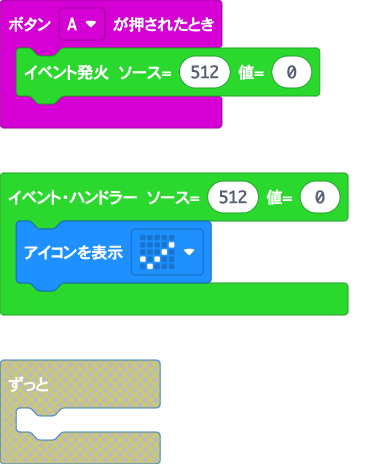
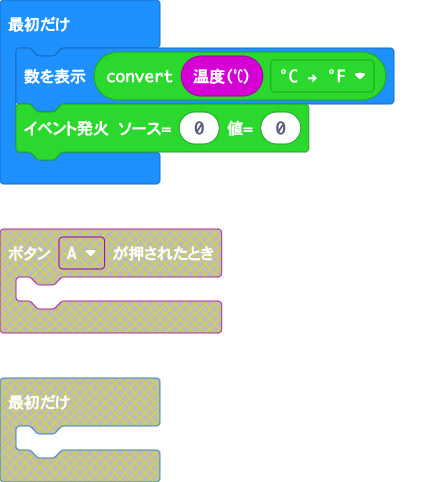
更新 main.blocks, main.ts, myEvents.ts, myEvents.cpp

diff --git a/myEvents.ts b/myEvents.ts
@@ -8,49 +8,49 @@ enum TempConvertType {
 //% color=#2bd92e
 //% weight=95
 //% icon="\uf135"
-namespace myBlocks {
-    // //% blockId=myBlocks_convertTemperature
-    // //% block="convert|%value|%convertType"
-    // export function convertTemperature(value: number, convertType: TempConvertType): number {
-    //     if (convertType === TempConvertType.CtoF) {
-    //         return cToF(value);
-    //     }
-    //     if (convertType === TempConvertType.FtoC) {
-    //         return fToC(value);
-    //     }
-    //     return value;
-    // }
-
-    // //% shim=myBlocks::cToF
-    // function cToF(value: number) {
-    //     return 32.0; // dummy for sim
-    // }
-
-    // //% shim=myBlocks::fToC
-    // function fToC(value: number) {
-    //     return -17.78; // dummy for sim
-    // }
-
-
-
-    //% block="イベント・ハンドラー ソース=$id 値=$val"
-    export function onMyEvent(id: number, val: number, handler: () => void) {
-        onEvent(id, val, handler)
+namespace myEvents {
+    //% blockId=myBlocks_convertTemperature
+    //% block="convert|%value|%convertType"
+    export function convertTemperature(value: number, convertType: TempConvertType): number {
+        if (convertType === TempConvertType.CtoF) {
+            return cToF(value);
+        }
+        if (convertType === TempConvertType.FtoC) {
+            return fToC(value);
+        }
+        return value;
     }
+
+    //% shim=myEvents::cToF
+    function cToF(value: number) {
+        return 32.0; // dummy for sim
+    }
+
+    //% shim=myEvents::fToC
+    function fToC(value: number) {
+        return -17.78; // dummy for sim
+    }
+
+
+
+    // // block="イベント・ハンドラー ソース=$id 値=$val"
+    // export function onMyEvent(id: number, val: number, handler: () => void) {
+    //     onEvent(id, val, handler)
+    // }
+
+    // // shim=myEvents::onEvnet
+    // function onEvent(id: number, val: number, handler: () => void) {
+    //     return 0    // dummy
+    // }
+
+
 
     //% block="イベント発火 ソース=$id 値=$val"
     export function fireMyEvent(id: number, val: number) {
         fireEvent(id, val)
     }
 
-
-
-    //% shim=myBlocks::onEvnet
-    function onEvent(id: number, val: number, handler: () => void) {
-        return 0    // dummy
-    }
-
-    //% shim=myBlocks::fireEvent
+    //% shim=myEvents::fireEvent
     function fireEvent(id: number, val: number) {
         return 0    // dummy
     }

diff --git a/main.ts b/main.ts
@@ -1,6 +1,2 @@
-myBlocks.onMyEvent(512, 0, function () {
-    basic.showIcon(IconNames.Yes)
-})
-input.onButtonPressed(Button.A, function () {
-    myBlocks.fireMyEvent(512, 0)
-})
+basic.showNumber(myEvents.convertTemperature(input.temperature(), TempConvertType.CtoF))
+myEvents.fireMyEvent(0, 0)

diff --git a/myEvents.cpp b/myEvents.cpp
@@ -1,31 +1,31 @@
-include "MicroBit.h"
+#include "MicroBit.h"
 
-MicroBit    uBit;
+// MicroBit    uBit;
 
-namespace myBlocks
+namespace myEvents
 {
-    // //%
-    // float cToF(float value)
-    // {
-    //     return value * 1.8 + 32.0;
-    // }
-
-    // //%
-    // float fToC(float value)
-    // {
-    //     return (value - 32.0) / 1.8;
-    // }
+    //%
+    float cToF(float value)
+    {
+        return value * 1.8 + 32.0;
+    }
 
     //%
-    float onEvent(float id, float val, Action body) {
-        uBit.messageBus.listen((int)id, (int)val, body);
-        return 0;
+    float fToC(float value)
+    {
+        return (value - 32.0) / 1.8;
     }
+
+    // //
+    // float onEvent(float id, float val, Action body) {
+    //     // uBit.messageBus.listen((int)id, (int)val, body);
+    //     return 0;
+    // }
 
     //%
     float fireEvent(float id, float val) {
-        MicrobitEvent evt((int)id, (int)val); 
+        // MicrobitEvent evt((int)id, (int)val); 
         return 0;
     }
 
-} // namespace myBlocks
+} // namespace myEvents
